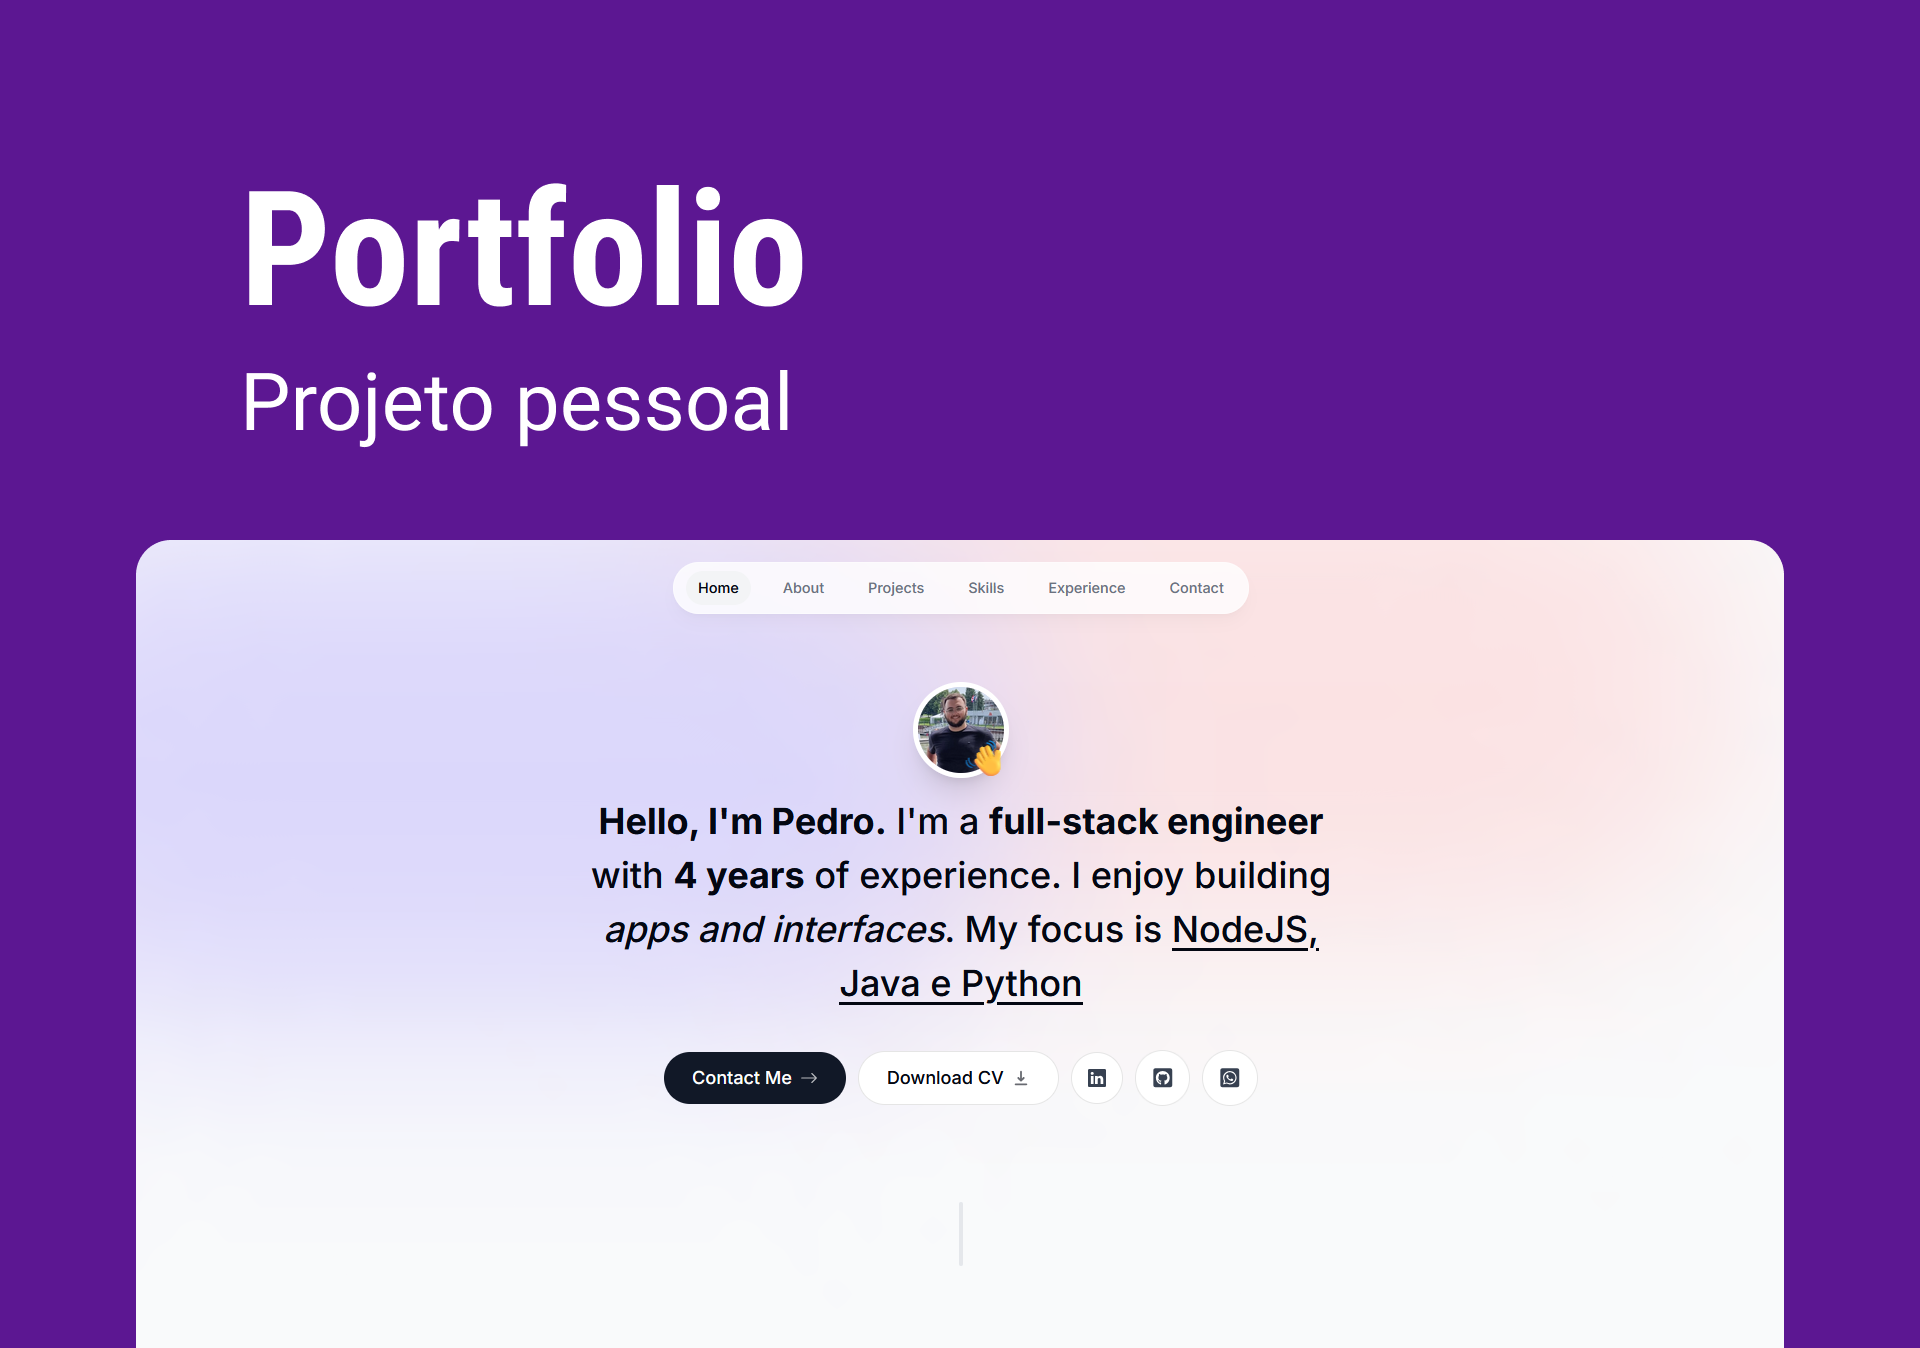
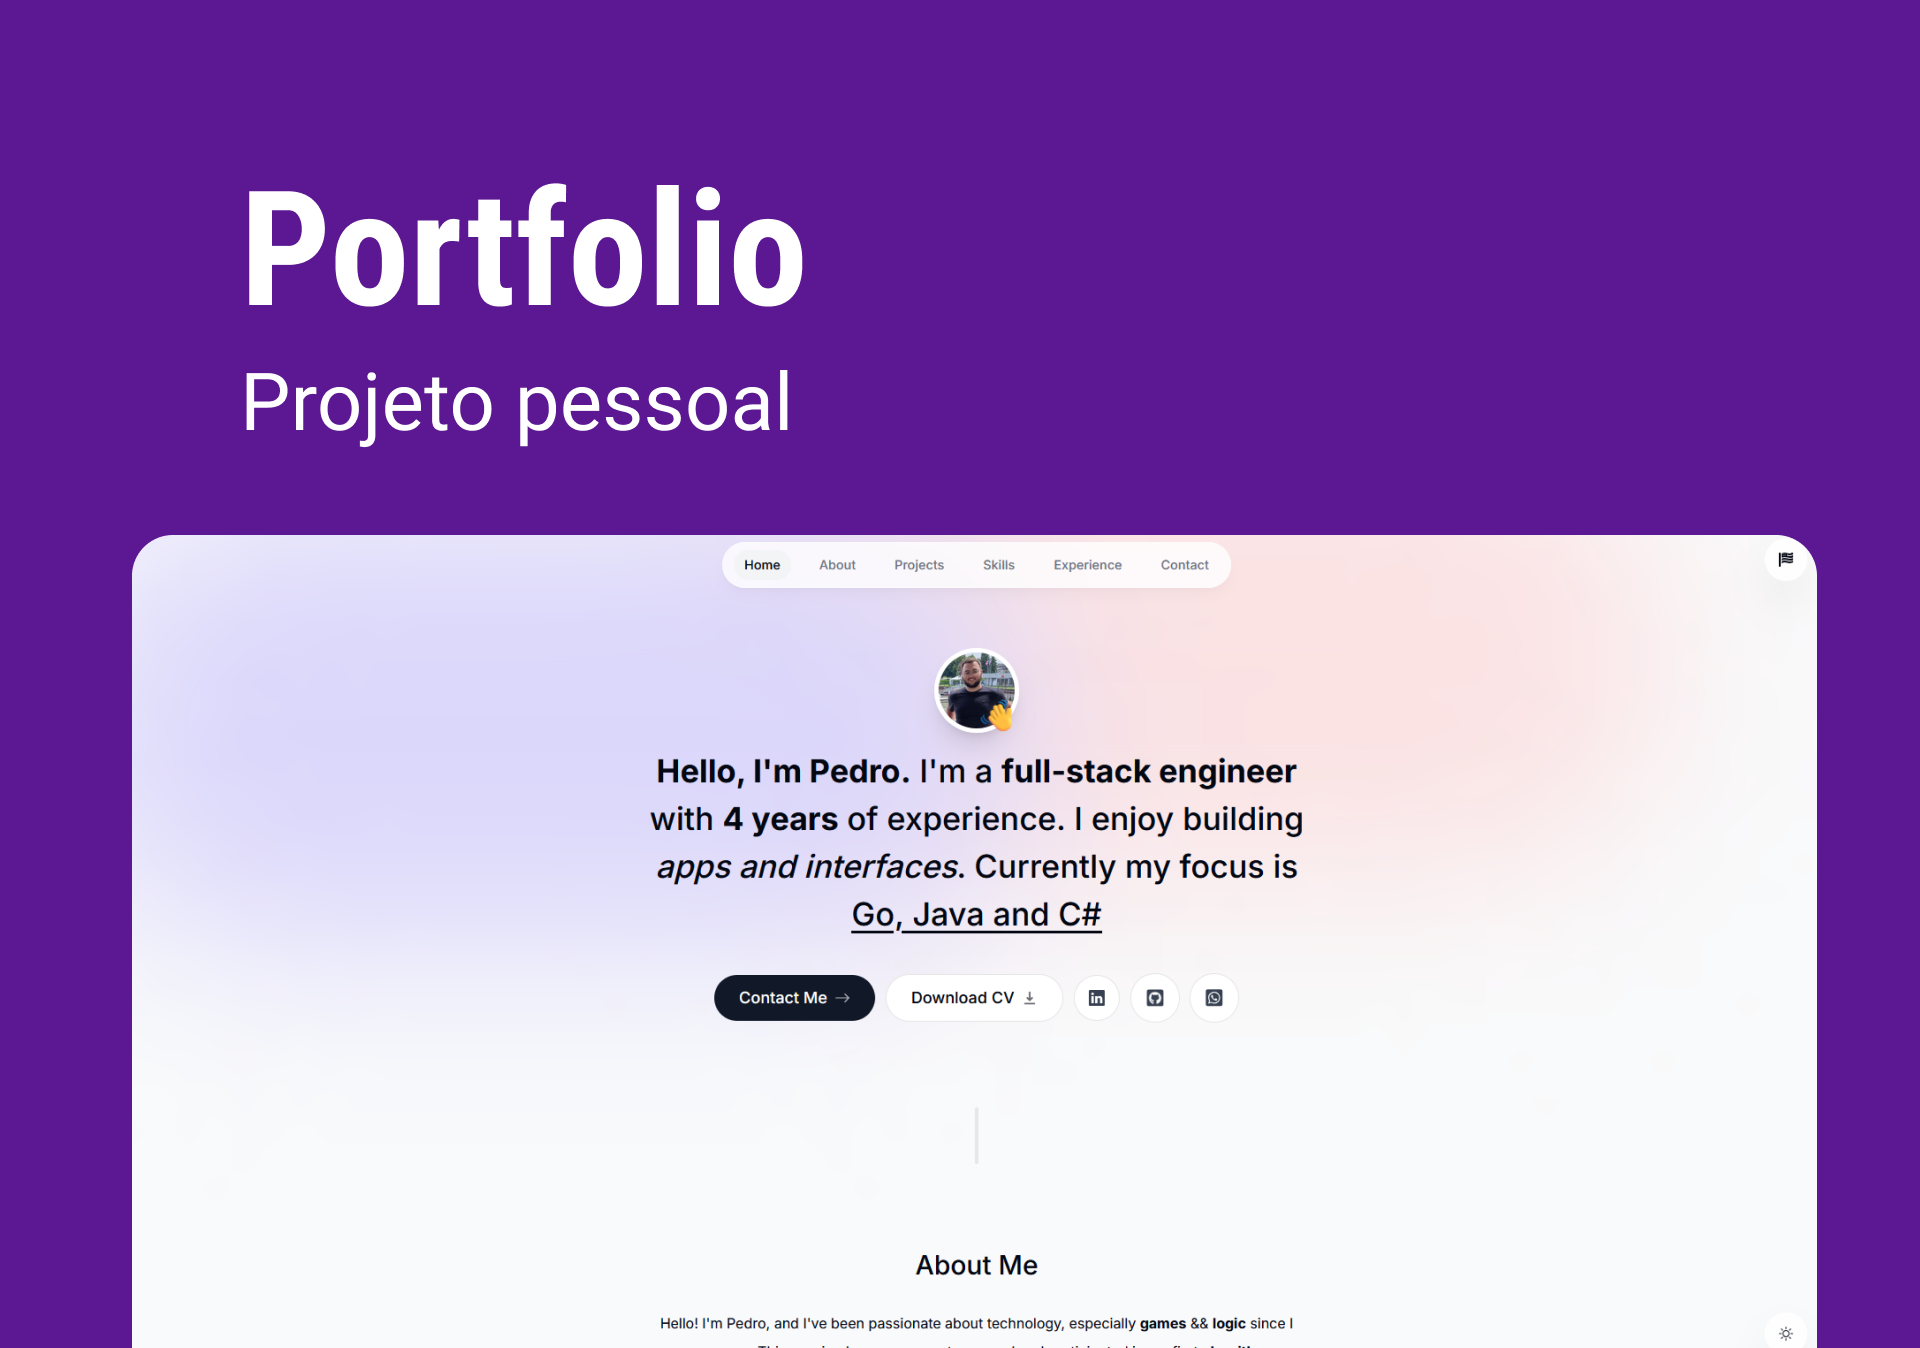
docs: update profile skills/experience/focus

diff --git a/src/data/projects.data.ts b/src/data/projects.data.ts
@@ -1,10 +1,17 @@
 import type { iProject } from '@/translations/translations.types';
 import {
-  polls,
+  gssh,
   gympassApi
 } from '@/assets';
 
 export const engProjects: iProject[] = [
+  {
+    title: 'gSSH',
+    description:
+    'A remote connection tool made in Go using gRPC to streamline remote access and automate command execution across servers.',
+    imageUrl: gssh,
+    tags: ['Go', 'gRPC', 'PTY', 'TLS', 'Viper', 'Docker'],
+  },
   {
     title: 'GympassAPI',
     description:
@@ -12,29 +19,22 @@ export const engProjects: iProject[] = [
     tags: ['NodeJS', 'Fastify', 'PrismaORM', 'PostgreSQL', 'Docker'],
     imageUrl: gympassApi,
   },
-  {
-    title: 'polls',
-    description:
-      'A API to management the creation and voting on polls in real-time, using WebSockets for updates.',
-    imageUrl: polls,
-    tags: ['NodeJS', 'Fastify', 'PrismaORM', 'PostgreSQL', 'Redis', 'Docker'],
-  },
 ];
 
 export const ptBrProjects: iProject[] = [
+  {
+    title: 'gSSH',
+    description:
+    'Uma ferramenta de conexão remota feita em Go usando gRPC para agilizar o acesso remoto e automatizar a execução de comandos entre servidores.',
+    imageUrl: gssh,
+    tags: ['Go', 'gRPC', 'PTY', 'TLS', 'Viper', 'Docker'],
+  },
   {
     title: 'GympassAPI',
     description:
       'Uma API de gerenciamento de acesso de usuários a serviços de academias, baseado em localizações e com validade de check-ins',
     tags: ['NodeJS', 'Fastify', 'PrismaORM', 'PostgreSQL', 'Docker'],
     imageUrl: gympassApi,
-  },
-  {
-    title: 'polls',
-    description:
-      'Uma API para gerenciar a criação e votação em enquetes em tempo real, usando WebSockets para atualizações.',
-    imageUrl: polls,
-    tags: ['NodeJS', 'Fastify', 'PrismaORM', 'PostgreSQL', 'Redis', 'Docker'],
   },
 ];
 

diff --git a/src/data/experiences.data.tsx b/src/data/experiences.data.tsx
@@ -7,7 +7,7 @@ import type { iExperience } from '@/translations/translations.types';
 
 export const engExperiences: iExperience[] = [
   {
-    title: 'Freelances',
+    title: 'Self Studying',
     location: 'From Home',
     description:
       'After 2 years of intensive study, I was able to complete the web development foundation',
@@ -34,7 +34,7 @@ export const engExperiences: iExperience[] = [
 
 export const ptBrExperiences: iExperience[] = [
   {
-    title: 'Estudo próprio',
+    title: 'Autodidata',
     location: 'De Casa',
     description:
       'Após 2 anos de estudo intensivo, consegui concluir a base do desenvolvimento web',

diff --git a/src/translations/pt-br.translation.ts b/src/translations/pt-br.translation.ts
@@ -39,11 +39,11 @@ export const ptBr: iTranslation = {
       },
       { type: 'text', content: ' de experiência. Eu gosto de construir ' },
       { type: 'span', className: 'italic', content: 'aplicações e interfaces' },
-      { type: 'text', content: '. Meu foco é ' },
+      { type: 'text', content: '. Atualmente meu foco é ' },
       {
         type: 'span',
         className: 'underline',
-        content: 'NodeJS, Java e C#',
+        content: 'Go, Java e C#',
       },
     ],
   },

diff --git a/src/translations/eng.translation.ts b/src/translations/eng.translation.ts
@@ -58,12 +58,12 @@ export const eng: iTranslation = {
       },
       {
         type: 'text',
-        content: '. My focus is ',
+        content: '. Currently my focus is ',
       },
       {
         type: 'span',
         className: 'underline',
-        content: 'NodeJS, Java and C#',
+        content: 'Go, Java and C#',
       },
     ],
   },

diff --git a/src/data/skills.data.ts b/src/data/skills.data.ts
@@ -1,6 +1,4 @@
 export const skillsData = [
-  'HTML',
-  'CSS',
   'Axios',
   'JavaScript',
   'TypeScript',
@@ -29,5 +27,7 @@ export const skillsData = [
   'Spring Framework',
   'Linux',
   'C#',
-  '.NET'
+  '.NET',
+  'Go',
+  'gRPC',
 ].sort();

diff --git a/src/assets/index.ts b/src/assets/index.ts
@@ -1,4 +1,4 @@
 import gympassApi from './pngs/gympassapi.png';
-import polls from './pngs/polls.png';
+import gssh from './pngs/gssh.png';
 
-export { gympassApi, polls };
+export { gympassApi, gssh };
